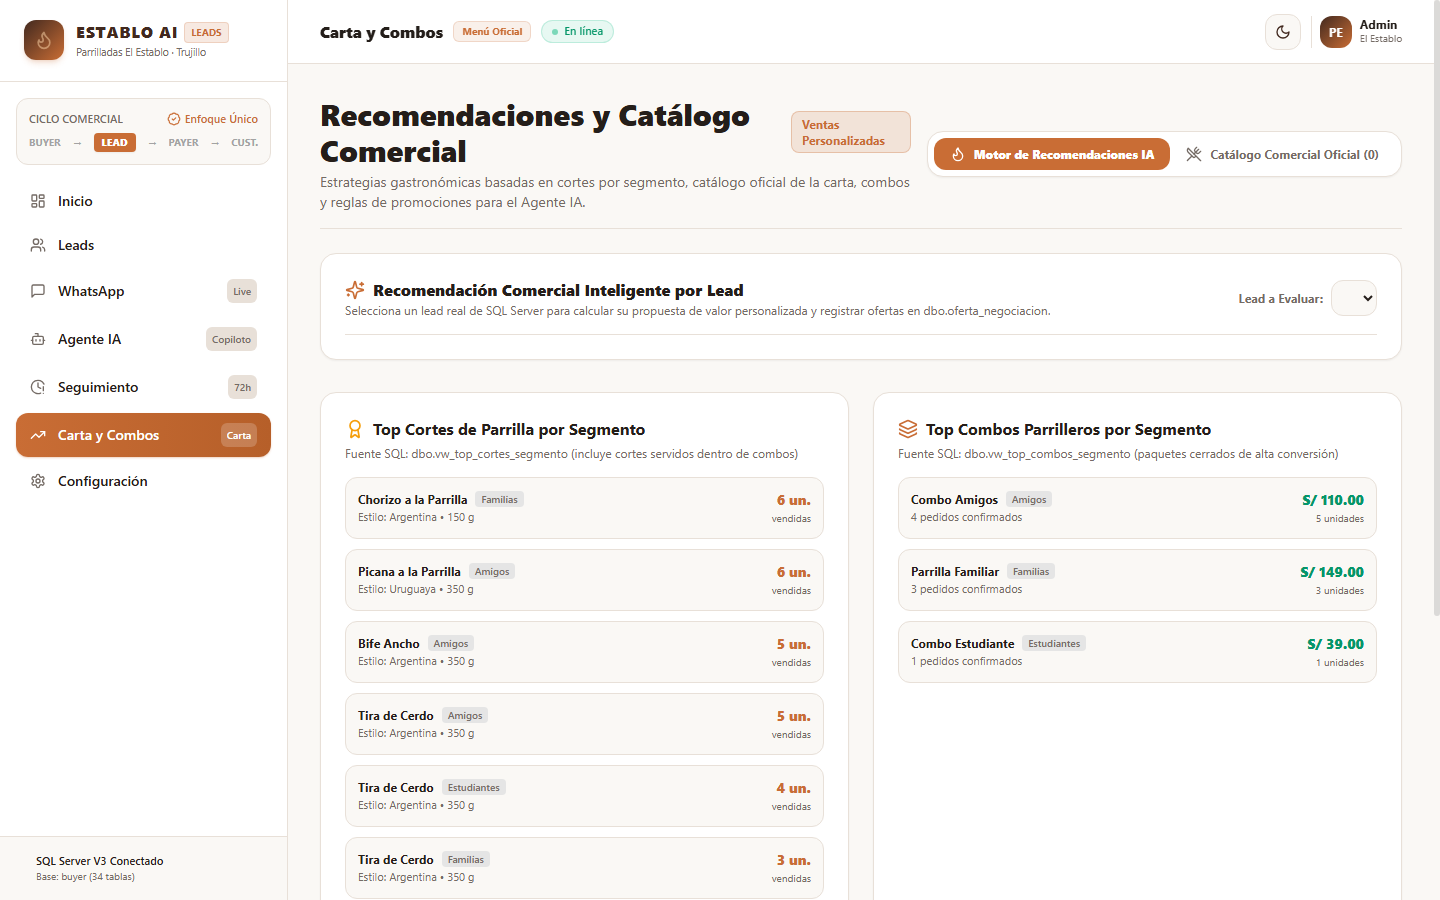
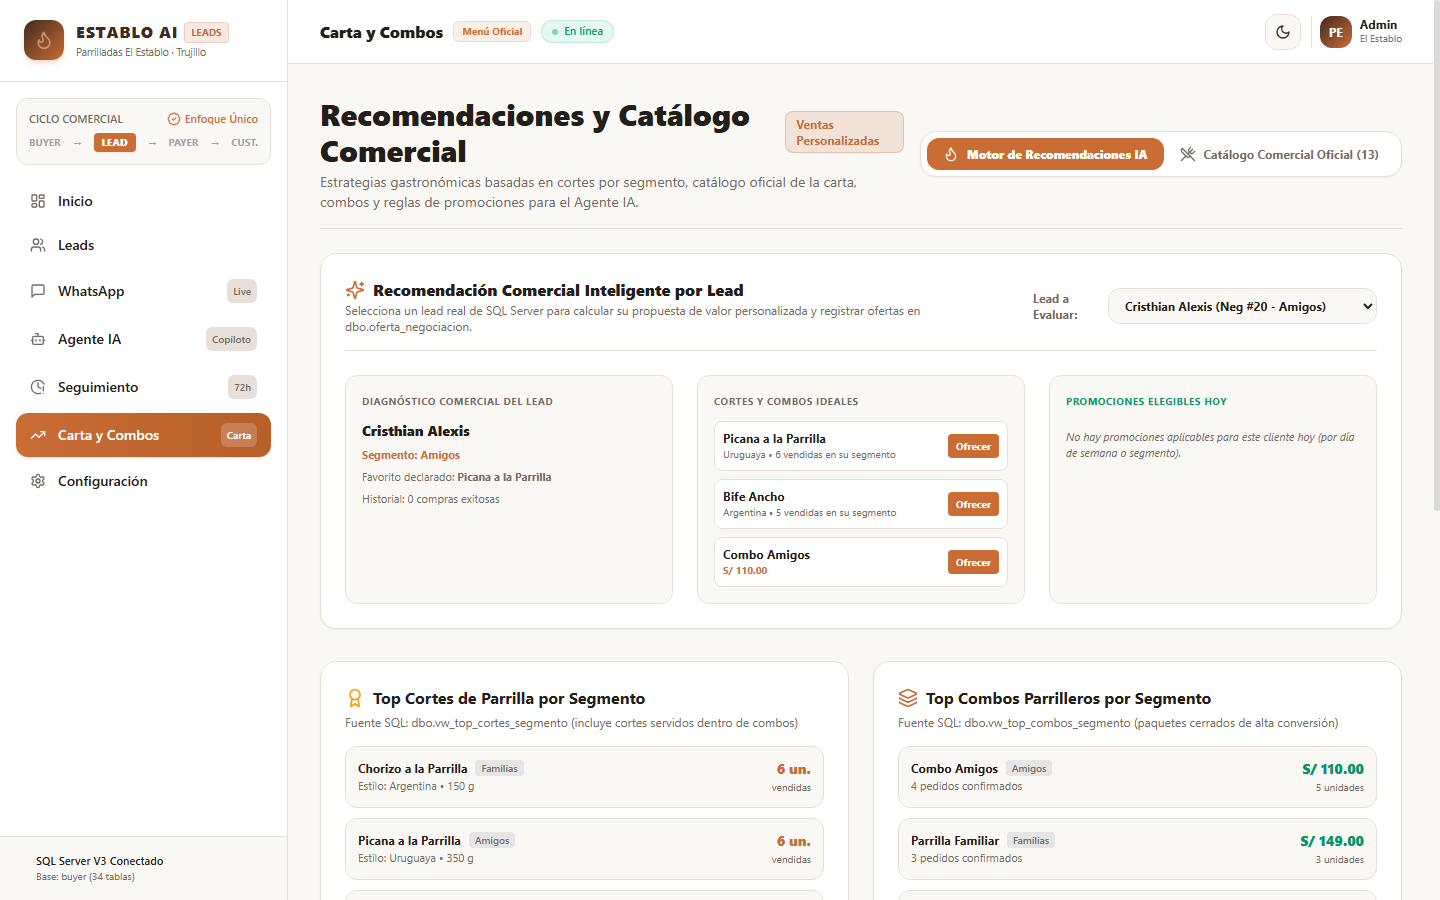
fix: cargar catalogo y recomendaciones secuencialmente para evitar contencion sql

diff --git a/src/app/recomendaciones/page.tsx b/src/app/recomendaciones/page.tsx
@@ -40,25 +40,27 @@ export default function RecomendacionesPage() {
   // Cargar datos panorámicos de recomendaciones y catálogo oficial
   const fetchData = async () => {
     try {
-      const [resRec, resLeads, resCat] = await Promise.all([
-        fetch("/api/recommendations"),
-        fetch("/api/leads"),
-        fetch("/api/catalog"),
-      ]);
+      // Cargar secuencialmente para evitar contención en el pool SQL Server
+      const resCat = await fetch("/api/catalog").catch(() => null);
+      if (resCat?.ok) {
+        const jsonCat = await resCat.json();
+        if (jsonCat?.success) setCatalogoData(jsonCat);
+      }
 
-      const [jsonRec, jsonLeads, jsonCat] = await Promise.all([
-        resRec.json(),
-        resLeads.json(),
-        resCat.json(),
-      ]);
+      const resRec = await fetch("/api/recommendations").catch(() => null);
+      if (resRec?.ok) {
+        const jsonRec = await resRec.json();
+        if (jsonRec?.success) setData(jsonRec);
+      }
 
-      if (jsonRec.success) setData(jsonRec);
-      if (jsonCat.success) setCatalogoData(jsonCat);
-
-      if (jsonLeads.success && jsonLeads.leads) {
-        setLeads(jsonLeads.leads);
-        if (jsonLeads.leads.length > 0) {
-          setLeadSeleccionado(jsonLeads.leads[0]);
+      const resLeads = await fetch("/api/leads").catch(() => null);
+      if (resLeads?.ok) {
+        const jsonLeads = await resLeads.json();
+        if (jsonLeads?.success && jsonLeads.leads) {
+          setLeads(jsonLeads.leads);
+          if (jsonLeads.leads.length > 0) {
+            setLeadSeleccionado(jsonLeads.leads[0]);
+          }
         }
       }
     } catch (err) {
